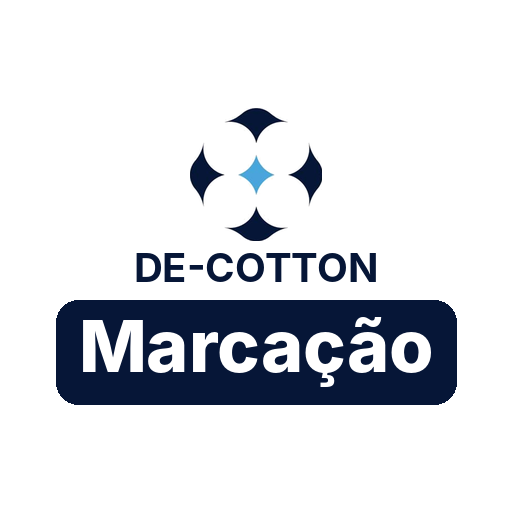
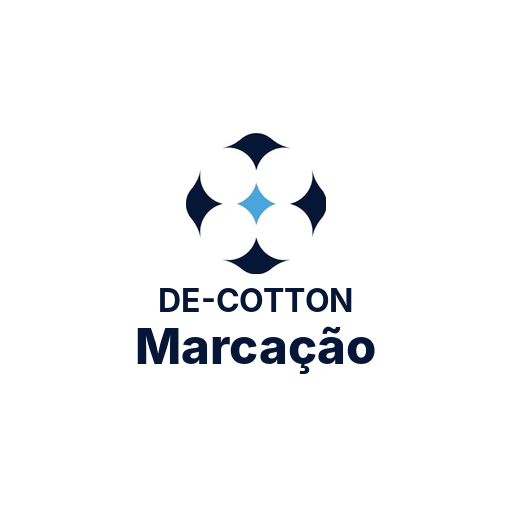
v1.0.4: ícone sem faixa, nome na cor DE-COTTON e tamanho padrão
Claude-Session: https://claude.ai/code/session_01Nmf84eCDdGJfLBLhLhZPr3

Changed region(s): [[0.0938, 0.1875, 0.9062, 0.8125], [0.3438, 0.2812, 0.4375, 0.4688]]

diff --git a/sw.js b/sw.js
@@ -1,5 +1,5 @@
 // Service worker: deixa o app de marcação e o leitor de códigos disponíveis sem internet
-const CACHE="marcacao-v4";
+const CACHE="marcacao-v5";
 const SHELL=["./","./index.html","./manifest.webmanifest","./icon-192.png","./icon-512.png","./icon-180.png","./logo.png","./qrcode.js"];
 const EXT=["https://cdn.jsdelivr.net/npm/zxing-wasm@2.2.4/dist/iife/reader/index.js","https://cdn.jsdelivr.net/npm/zxing-wasm@2.2.4/dist/reader/zxing_reader.wasm"];
 self.addEventListener("install",e=>{e.waitUntil((async()=>{const c=await caches.open(CACHE);await c.addAll(SHELL);

diff --git a/index.html b/index.html
@@ -74,7 +74,7 @@ main{padding:12px;max-width:640px;margin:0 auto;padding-bottom:40px}
 // Bluetooth (Web Serial do Chrome) ou pelo app RawBT.
 // Sem dados da empresa no app: logos e nomes vêm dentro do pacote.
 // ======================================================================
-const VER="1.0.3";
+const VER="1.0.4";
 const $=s=>document.querySelector(s);
 const esc=v=>String(v??"").replace(/[&<>"']/g,c=>({"&":"&amp;","<":"&lt;",">":"&gt;",'"':"&quot;","'":"&#39;"}[c]));
 const fmt=n=>n==null?"—":Number(n).toLocaleString("pt-BR");
